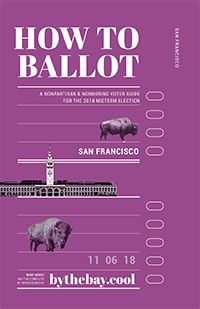
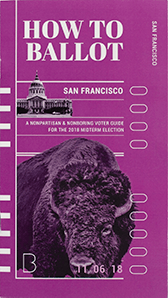
finalizes print page

diff --git a/src/pages/print/index.js b/src/pages/print/index.js
@@ -2,11 +2,14 @@ import React from 'react'
 import styled from 'styled-components'
 import PageBuilder from 'components/page-blocks/aggregators/PageBuilder'
 import PageTitleBlock from 'components/page-blocks/blocks/PageTitleBlock'
-import ImgBlock from 'components/page-blocks/blocks/ImgBlock'
+import ImgAndTitleBlock from 'components/page-blocks/blocks/ImgAndTitleBlock'
 import CustomBlock from 'components/page-blocks/blocks/CustomBlock'
 import SectionTitleBlock from 'components/page-blocks/blocks/SectionTitleBlock'
 import TextWithTitleBlock from 'components/page-blocks/blocks/TextWithTitleBlock'
 import BookletImg from './images/printguide.jpg'
+import BookletImg_2x from './images/printguide@2x.jpg'
+import BookletImg_w from './images/printguide.webp'
+import BookletImg_2x_w from './images/printguide@2x.webp'
 import Acronym from 'components/interactive/acronym'
 import MultisourceImg from 'components/static/multisource-image'
 
@@ -14,15 +17,7 @@ import CA_front from './images/ca-cover.png'
 import CA_front_w from './images/ca-cover.webp'
 import CA_front_2x from './images/ca-cover@2x.png'
 import CA_front_2x_w from './images/ca-cover@2x.webp'
-import CA_back from './images/ca-back.png'
-import CA_back_w from './images/ca-back.webp'
-import CA_back_2x from './images/ca-back@2x.png'
-import CA_back_2x_w from './images/ca-back@2x.webp'
 
-import SF_back from './images/sf-back.png'
-import SF_back_w from './images/sf-back.webp'
-import SF_back_2x from './images/sf-back@2x.png'
-import SF_back_2x_w from './images/sf-back@2x.webp'
 import SF_front from './images/sf-cover.png'
 import SF_front_w from './images/sf-cover.webp'
 import SF_front_2x from './images/sf-cover@2x.png'
@@ -33,27 +28,46 @@ const Container = styled.div`
   justify-content: center;
   margin-top: 30px;
 `
+const LinkContainer = styled.div`
+  display: flex;
+  flex-direction: column;
+  align-items: center;
+`
 
 const DownloadLink = styled.a`
   display: block;
   background-color: #eee;
-  width: 200px;
+  height: 300px;
   border: 1px solid #ccc;
   margin: 0 30px;
   filter: drop-shadow(12px 12px 0 rgba(0,0,0,0.10)) drop-shadow(-20px 16px 2px rgba(0,0,0,0.05));
-  transition: transform 200ms ease-in;
-  ${'' /* @media not all and (hover: none) {
-    &:hover{
-      transform: rotate3d(0,1,0,180deg);
-
-    }
-  } */}
 `
 const Image = styled(MultisourceImg)`
   display: block;
   width: 100%;
   object-fit: contain;
 `
+const ImgLabel = styled.h3`
+  margin-top: 20px;
+`
+
+const DownloadBox = (props) => {
+  const links = props.links.map( (link, i) => (
+    <LinkContainer>
+      <DownloadLink href={link.slug} download>
+        <Image
+          imageHandles={link.imageHandles}
+          alt={link.alt}/>
+      </DownloadLink>
+      <ImgLabel>{link.label}</ImgLabel>
+    </LinkContainer>
+  ))
+  return (
+    <Container>
+      {links}
+    </Container>
+  )
+}
 
 const Data = {
 	pageId:"subscribe-page",
@@ -66,70 +80,65 @@ const Data = {
 	},
 	blocks: [
   {
-    	component: PageTitleBlock,
+    component: ImgAndTitleBlock,
     data: {
-    		title: "Download our print guide",
-    }
-  },
-  {
-      component: ImgBlock,
-    data: {
-      src: {
-          _1x: BookletImg,
-          // _1x_webp: partnerlogos_w,
-      },
-        alt: "Image of printed voter guide",
-        caption: "We blurred the background to make this image look cooler.",
-        nColWidth: 6,
-    }
-  },
-  {
-      component: TextWithTitleBlock,
-    data:{
-        title:"Who designed this beautiful thing?",
-        text:
+      title: "Download the print guide",
+      subtitle:
       <span>
-        With the content from our site, our friends at <a target="_blank" rel="noopener noreferrer" href="http://www.work-work-work.com/">Working Hard</a> designed us a beautiful print voter guide. We have two books available for download as <Acronym expanded="Portable Document Format" acronym="PDF"/>s: the California and San Francisco elections. They're designed to be printed on standard 8.5" x 11" letter paper, but you do you.
+        With content from our site, our friends at <a target="_blank" rel="noopener noreferrer" href="http://www.work-work-work.com/">Working Hard</a> designed us a beautiful print voter guide. We have two books available for your download as <Acronym expanded="Portable Document Format" acronym="PDF"/>s: the California and San Francisco elections. They're designed to be printed on standard 8.5" x 11" letter paper, but you do you.
 
         <br/><br/>Please keep in mind that the information in the books were last updated in early October, because printing. Please refer to this very website 👇 and <a href="https://www.bythebay.cool">By The Bay</a> for the most up-to-date information.
-      </span>
+      </span>,
+      src: {
+          _1x: BookletImg,
+          _1x_webp: BookletImg_w,
+          _2x: BookletImg_2x,
+          _2x_webp: BookletImg_2x_w,
+      },
+        alt: "Image of printed voter guide",
+        caption: "Don't you just want to rub these against your face, lovingly? (Photo provided by Working Hard)",
+        nColWidth: 7,
     }
   },
   {
-      component: SectionTitleBlock,
+    component: SectionTitleBlock,
     data: {
-        nColWidth: 6,
-        title:"Download",
-        subtitle:"By clicking the images"
+      nColWidth: 6,
+      title:"Click to download them",
+      paddingTop: 20,
     }
   },
   {
-      component: CustomBlock,
+    component: CustomBlock,
     data:{
-        nColWidth: 6,
+        nColWidth: 8,
         body:
-      <Container>
-        <DownloadLink href="https://www.ballot.fyi/downloads/ballotfyi-CA-voter-guide.pdf" download>
-          <Image
-            imageHandles={{
-                _1x: CA_back,
-                _1x_webp: CA_back_w,
-                _2x: CA_back_2x,
-                _2x_webp: CA_back_2x_w
-            }}
-          alt="Click to download CA print guide"/>
-        </DownloadLink>
-        <DownloadLink href="https://www.ballot.fyi/downloads/ballotfyi-SF-voter-guide.pdf" download>
-          <Image
-            imageHandles={{
+        <DownloadBox
+          links={[
+            {
+              slug:"/downloads/ballotfyi-CA-voter-guide.pdf",
+              imageHandles:{
+                _1x: CA_front,
+                _1x_webp: CA_front_w,
+                _2x: CA_front_2x,
+                _2x_webp: CA_front_2x_w
+              },
+              alt:"Click to download CA print guide",
+              label:"California"
+            },
+            {
+              slug:"/downloads/ballotfyi-SF-voter-guide.pdf",
+              imageHandles:{
                 _1x: SF_front,
                 _1x_webp: SF_front_w,
                 _2x: SF_front_2x,
                 _2x_webp: SF_front_2x_w
-            }}
-          alt="Click to download SF print guide"/>
-          </DownloadLink>
-        </Container>
+              },
+              alt:"Click to download SF print guide",
+              label:"San Francisco"
+            },
+          ]}
+        />
       }
     },
   ]

diff --git a/src/components/page-blocks/blocks/ImgAndTitleBlock.js b/src/components/page-blocks/blocks/ImgAndTitleBlock.js
@@ -1,0 +1,119 @@
+import React from 'react'
+import PropTypes from 'prop-types'
+import styled from 'styled-components'
+import { Row, Col } from 'react-flexbox-grid';
+import {Spacer} from 'layout/util'
+import MultisourceImage from 'components/static/multisource-image'
+
+/*
+{
+
+	component: ImgAndTitle,
+	data: {
+		title: "June 5, 2018 election guide",
+		subtitle: "There's a lot to vote on in SF, but we did the homework for you. We've read through a bunch of legalese, opinions, and articles to give you nonpartisan summaries on what you need to know to cast your vote for this primary election.",
+		datePublished: new Date('July 29, 2018 15:20:00'), //must be Date objects
+		dateModified: new Date('July 29, 2018 17:20:00')
+	}
+},
+*/
+
+
+const Title = styled.h1`
+	margin-bottom: 0;
+	text-rendering: optimizeLegibility;
+	letter-spacing: -2.6px;
+	@media screen and (max-width: 767px) {
+		font-size: 38px;
+		line-height: 46px;
+		letter-spacing: -1.6px;
+	}
+`;
+
+
+const Subheadline = styled.div`
+	font-size: 14px;
+	line-height: 20px;
+	margin-top: 15px;
+	@media screen and (max-width: 1023px) {
+		width: 100%;
+		margin-top: 30px;
+	}
+`;
+
+// const Timestamp = styled.h4`
+// 	text-align: right;
+// 	font-size: 12px;
+// 	color: #999;
+// 	@media screen and (max-width: 767px) {
+// 		text-align: left;
+// 	}
+// `
+const Img = styled(MultisourceImage)`
+	width: 100%;
+	object-fit: contain;
+	box-sizing: border-box;
+	border-radius: 6px;
+  margin-left: 30px;
+  box-sizing: border-box;
+`;
+
+const Caption = styled.div`
+	font-size: 14px;
+	line-height: 18px;
+	font-style: italic;
+	margin-top: 5px;
+	color: #666;
+	padding-left: 5px;
+  margin-left: 30px;
+`;
+
+
+const ImgAndTitle = (props) => {
+	const {title, subtitle, src, caption, nColWidth, alt} = props.data;
+
+	return(
+		<Row>
+	    <Col
+	    	xsOffset={1} xs={10}
+	      smOffset={2} sm={8}
+	      mdOffset={1} md={10-nColWidth}
+	      lgOffset={1} lg={10-nColWidth}
+     >
+				<Title>{title}</Title>
+        <Spacer height={30}/>
+				{subtitle && <Subheadline>{subtitle}</Subheadline>}
+			</Col>
+      <Col
+	    	xsOffset={0} xs={12}
+	      smOffset={1} sm={10}
+	      mdOffset={0} md={nColWidth}
+	      lgOffset={0} lg={nColWidth}
+	    >
+				<Img imageHandles={src} alt={alt || ""}/>
+				{caption && <Caption>{caption}</Caption>}
+				<Spacer height={30}/>
+			</Col>
+		</Row>
+	)
+}
+
+ImgAndTitle.propTypes = {
+	data: PropTypes.shape({
+		title: PropTypes.string.isRequired,
+		subtitle: PropTypes.oneOfType([PropTypes.string, PropTypes.object]),
+		datePublished: PropTypes.instanceOf(Date),
+		dateModified: PropTypes.instanceOf(Date),
+    nColWidth: PropTypes.number,
+    src: PropTypes.shape({
+      _1x:PropTypes.string.isRequired,
+      _2x:PropTypes.string,
+      _1x_webp:PropTypes.string,
+      _2x_webp:PropTypes.string,
+    }),
+    alt: PropTypes.string.isRequired,
+    caption: PropTypes.oneOfType([PropTypes.string, PropTypes.object]),
+	}).isRequired
+}
+
+export default ImgAndTitle;

diff --git a/src/components/page-blocks/blocks/SectionTitleBlock.js b/src/components/page-blocks/blocks/SectionTitleBlock.js
@@ -49,7 +49,7 @@ const Img = styled.img`
 `;
 
 const TitleBar = (props) => {
-	const {img, title, subtitle, align, nColWidth} = props.data;
+	const {img, title, subtitle, align, nColWidth, paddingTop} = props.data;
 	const nWidth = nColWidth || 8;
 	const offset = Math.floor((12-nWidth)/2)
 	const isReversed = (align==="right");
@@ -61,7 +61,7 @@ const TitleBar = (props) => {
 				mdOffset={offset} md={nWidth}
 	      lgOffset={offset} lg={nWidth}
 			>
-				<Spacer height={70} xsHeight={35}/>
+				<Spacer height={paddingTop || 70} xsHeight={35}/>
 				<FillRestWithLine align={align}>
 					{img && !isReversed && <Img src={img} isReversed={isReversed} alt="title image"/>}
 					<SectionTitle>{title}</SectionTitle>
@@ -82,6 +82,7 @@ TitleBar.propTypes = {
 		title: PropTypes.oneOfType([PropTypes.string, PropTypes.object]).isRequired,
 		subtitle: PropTypes.oneOfType([PropTypes.string, PropTypes.object]),
 		nColWidth: PropTypes.number,
+		paddingTop: PropTypes.number,
 		img: PropTypes.string,
 		align: PropTypes.string,
 	})
